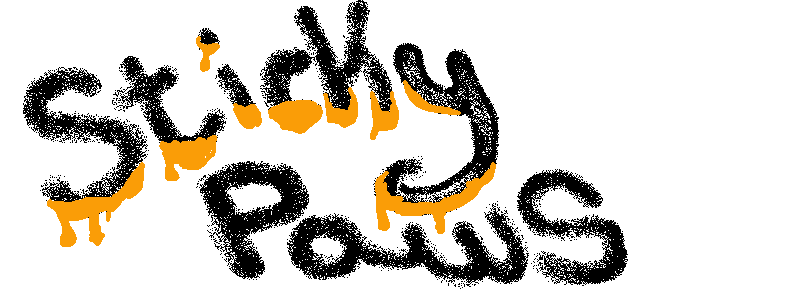
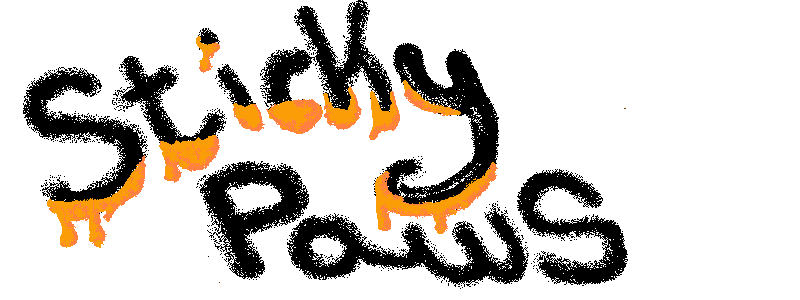
floating title card & card drawing update

diff --git a/src/main.c b/src/main.c
@@ -9,8 +9,6 @@
 #define MAX_SOUNDS SOUNDS_COUNT
 
 void unloadTextures(UserInterface *ui, Honey *jar, Bear *paw);
-// void flashHappyBear(UserInterface *ui);
-
 
 int main()
 {
@@ -82,6 +80,11 @@ int main()
 
   // reset mouse so bear paw isn't in top right
   SetMousePosition(HEIGHT - 50, WIDTH / 2);
+
+  const float bobAmplitude = 10.0f;
+  const float duration = 1.0f;
+  const float frequency = 1.0f / (duration * 2);
+  const float bobSpeed = 2 * PI * frequency;
 
   while (!WindowShouldClose()) {
     // mouse position diff used to stuck object movement
@@ -237,8 +240,11 @@ int main()
     ClearBackground(RAYWHITE);
 
     if (GAMESTATE == START) {
+      float bobOffset = sinf(GetTime() * bobSpeed) * bobAmplitude;
+      Vector2 titlePos = {0, 0-(int)bobOffset};
+
       DrawTextureEx(GameUI.splashScreen, (Vector2){0.0}, 0, 1.2, WHITE);
-      // DrawTextureEx(GameUI.title, (Vector2){0, 0}, 0, 0.75, WHITE);
+      DrawTextureEx(GameUI.title, titlePos, 0, 0.75, WHITE);
       drawButton("PLAY", GameUI.startButton);
       drawButton("?", GameUI.tutorialButton);
       if (SHOW_TUTORIAL)
@@ -247,7 +253,6 @@ int main()
 
     if (GAMESTATE == PLAY) {
       DrawTexture(GameUI.background, 0, 0, WHITE);
-      // flashHappyBear(&GameUI);   // draw background image
 
       // draw obstacles
       for (int i = 0; i < Obs.length; i++) {
@@ -297,28 +302,3 @@ int main()
   CloseWindow();
   return 0;
 }
-
-
-// void flashHappyBear(UserInterface *ui)
-// {
-//   Texture2D image = ui->splashScreen;
-//   float alpha = 1.0f;
-//   float fadeSpeed = 1.5f;
-//   bool fading = false;
-//   float timer = 0.5f;
-
-//   if (timer > 0) {
-//     timer -= GetFrameTime();
-//   } else {
-//     fading = true;
-//   }
-
-//   if (fading) {
-//     alpha -= fadeSpeed * GetFrameTime();
-//     if (alpha < 0)
-//       alpha = 0; // clamp to 0
-//   }
-
-//   DrawTextureRec(image, (Rectangle){0, 0, image.width, image.height}, (Vector2){200, 150},
-//                  Fade(WHITE, alpha));
-// }